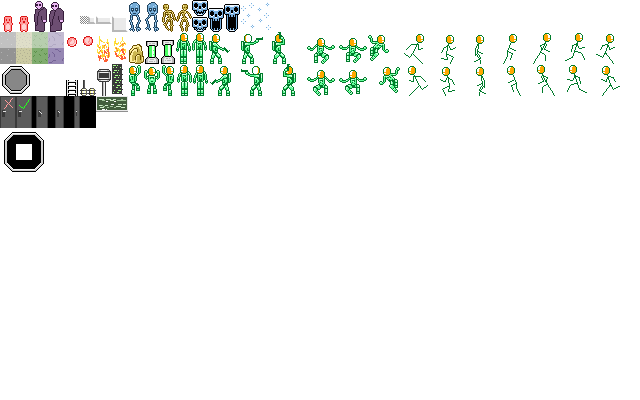
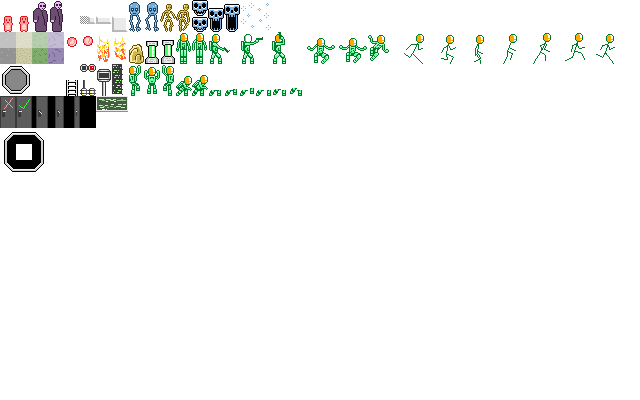
mostly implemented crouching, added some (incomplete) sprites

diff --git a/entities.py b/entities.py
@@ -54,6 +54,12 @@ class Entity:
         self.y = y
         self.rect.y = round(y)
         
+    def set_w(self, w):
+        self.rect.width = w
+        
+    def set_h(self, h):
+        self.rect.height = h
+        
     def set_xy(self, x, y):
         self.set_x(x)
         self.set_y(y)
@@ -165,13 +171,13 @@ class Actor(Entity):
     def set_vel_y(self, vy):
         self.vel[1] = vy
         
-    def _update_status_tags(self, world):
+    def _update_status_tags(self, world, input_state):
         self.is_grounded = world.is_touching_wall(self, (0, 1))
         self.is_left_walled = world.is_touching_wall(self, (-1, 0))
         self.is_right_walled = world.is_touching_wall(self, (1, 0))    
-        if self.is_left_walled or self.vel[0] > 0:
+        if self.vel[0] > 0 or (not self.is_grounded and self.is_left_walled):
             self.facing_right = True
-        if self.is_right_walled or self.vel[0] < 0:
+        if self.vel[0] < 0 or (not self.is_grounded and self.is_right_walled):
             self.facing_right = False
         
     def deal_damage(self, damage, direction=None):
@@ -180,9 +186,12 @@ class Actor(Entity):
         
 class Player(Actor):
     def __init__(self, x, y):
-        Actor.__init__(self, x, y, 16, 48)
+        self.full_height = 48
+        self.crouch_height = 32
+        Actor.__init__(self, x, y, 16, self.full_height)
         self.categories.update(["player"])
         self.speed = 5
+        self.crouch_speed = 2.5
         
         self.max_slide_speed = 1.5
         
@@ -191,6 +200,7 @@ class Player(Actor):
         self.active_bullet = None # rect where bullet is
         
         self.interact_radius = 32
+        self.is_crouching = False
     
     def sprite(self):
         if self._is_shooting():
@@ -198,10 +208,16 @@ class Player(Actor):
             anim = images.PLAYER_GUN
             return anim.single_frame(frm)
         elif self.is_grounded:
-            if abs(self.vel[0]) > 1:
-                return images.PLAYER_RUN
+            if self.is_crouching:
+                if abs(self.vel[0]) > 0.5:
+                    return images.PLAYER_CROUCH_WALK
+                else:
+                    return images.PLAYER_CROUCH
             else:
-                return images.PLAYER_IDLE
+                if abs(self.vel[0]) > 1:
+                    return images.PLAYER_RUN
+                else:
+                    return images.PLAYER_IDLE
         elif self.is_left_walled or self.is_right_walled:
             return images.PLAYER_WALLSLIDE
         else:
@@ -215,7 +231,10 @@ class Player(Actor):
         if spr is images.PLAYER_WALLSLIDE:
             sign = 1 if self.facing_right else -1
             res[0] = res[0] + sign * 12
-        
+        if self.is_crouching:
+            #res[1] -= 8
+            pass
+            
         return res
         
     def draw(self, screen, offset=(0,0), modifier=None):
@@ -225,7 +244,15 @@ class Player(Actor):
         Actor.draw(self, screen, offset, modifier)
         
     def update(self, input_state, world):
-        self._update_status_tags(world)
+        self._update_status_tags(world, input_state)
+        
+        h = self.height()
+        expected_h = self.crouch_height if self.is_crouching else self.full_height
+        if h != expected_h:
+            y = self.xy()[1]
+            self.set_h(expected_h)
+            self.set_y(y + (h - expected_h)) # keep feet in same place
+        
         self._handle_shooting(world)
         
         keyboard_x = 0
@@ -244,7 +271,8 @@ class Player(Actor):
                 fric = 0.25
             self.vel[0] = cool_math.tend_towards(0, self.vel[0], fric)
         else:    
-            target_speed = keyboard_x * self.speed
+            target_speed = self.speed if not self.is_crouching else self.crouch_speed
+            target_speed *= keyboard_x
             if self.is_grounded and self.vel[0] * target_speed < 0:
                 # turn around instantly when grounded
                 self.vel[0] = 0
@@ -279,6 +307,16 @@ class Player(Actor):
 
         self.apply_gravity()
         self.apply_physics()
+        
+    def _update_status_tags(self, world, input_state):
+        Actor._update_status_tags(self, world, input_state)
+        
+        was_crouching = self.is_crouching
+        self.is_crouching = self.is_grounded and input_state.is_held(pygame.K_s)
+        if was_crouching and self.is_grounded and not self.is_crouching:
+            blocked_above = world.is_touching_wall(self, (0, -1))
+            if blocked_above:
+                self.is_crouching = True
         
     def _is_shooting(self):
         return self.shoot_cooldown > 0
@@ -336,7 +374,7 @@ class Enemy(Actor):
             pygame.draw.rect(screen, (50, 255, 50), health_rect, 0)
         
     def update(self, input_state, world):
-        self._update_status_tags(world)
+        self._update_status_tags(world, input_state)
         
         if self.health <= 0:
             self.is_alive = False
@@ -368,13 +406,7 @@ class Enemy(Actor):
     def touched_player(self, player, world):
         v = cool_math.sub(player.center(), self.center())
         v = cool_math.normalize(v)
-        player.deal_damage(5, v)
-        
-    def is_actor(self):
-        return True
-        
-    def is_enemy(self):
-        return True   
+        player.deal_damage(5, v)  
                
                
 class Wall(Entity):

diff --git a/images.py b/images.py
@@ -83,16 +83,13 @@ TERMINAL_SCREEN = A([R(112,64+i*5,10,5) for i in range(0, 6)])
 CHALKBOARD = A([R(96,96,32,16)])
 
 PLAYER_IDLE     = A([R(176,32,16,32), R(192,32,16,32)])
-PLAYER_IDLE_LEFT = A([R(176,64,16,32), R(192,64,16,32)])
 PLAYER_GUN      = A([R(208+i*32,32,24,32) for i in range(0, 3)], TPF=5)
-PLAYER_GUN_LEFT = A([R(208+i*32,64,24,32) for i in range(0, 3)], TPF=5)
 PLAYER_AIR      = A([R(304,32,32,32), R(336,32,32,32)])
-PLAYER_AIR_LEFT = A([R(304,64,32,32), R(336,64,32,32)])
 PLAYER_WALLSLIDE = A([R(368,32,24,32)])
-PLAYER_WALLSLIDE_LEFT = A([R(376,64,24,32)]) 
 PLAYER_RUN      = A([R(400+32*i,32,32,32) for i in range(0, 6)], TPF=3)
-PLAYER_RUN_LEFT = A([R(400+32*i,64,32,32) for i in range(0, 6)], TPF=3)
 PLAYER_LADDER   = A([R(128,64,16,32), R(144,64,16,32),R(160,64,16,32),R(144,64,16,32)])
+PLAYER_CROUCH   = A([R(176+i*16,64,16,32) for i in range(0, 2)])
+PLAYER_CROUCH_WALK = A([R(208+i*16,64,16,32) for i in range(0, 6)], TPF=3)
 
 STONE_GROUND = A([r(0,2,1,1)])
 SAND_GROUND = A([r(1,2,1,1)])
@@ -108,7 +105,7 @@ TEXT_BORDER_BR  = A([R(32,160,16,16)])
 TEXT_BORDER_B   = A([R(16,160,16,16)])
 TEXT_BORDER_BL  = A([R(0,160,16,16)])
 
-def flip_rect(rect):
+def _flip_rect(rect):
     sheet_w = get_sheet(modifier="flipped").get_width()
     x = sheet_w - rect[0] - rect[2]
     return [x, rect[1], rect[2], rect[3]]
@@ -123,7 +120,7 @@ def draw_animated_sprite(screen, dest_rect, animation, modifier="normal"):
 
 def draw_sprite(screen, dest_rect, source_rect, modifier="normal"):
     if modifier == "flipped":
-        source_rect = flip_rect(source_rect)
+        source_rect = _flip_rect(source_rect)
     screen.blit(get_sheet(modifier), dest_rect, source_rect)
     
 def get_sheet(modifier="normal"):
@@ -219,7 +216,6 @@ def get_darkness_overlay(rect, sources, ambient_darkness):
         res = pygame.Surface((rect[2], rect[3]), flags=pygame.SRCALPHA)
         res.fill((0,0,0,ambient_darkness))
         for src in key:
-            #pygame.draw.circle(res, (255,255,255,255-src[2]), (src[0], src[1]), src[3], 0)
             sized_lightmap = get_lightmap(src[3])
             dest = (src[0]-src[3], src[1]-src[3])
             res.blit(sized_lightmap, dest, special_flags=pygame.BLEND_RGBA_SUB)

diff --git a/world.py b/world.py
@@ -214,21 +214,22 @@ class World:
         for chunk in chunks_to_draw:
             chunk.draw_actors(screen, offset)
             
-        if not global_state.show_no_darkness:
-            onscreen_keys = self.get_chunk_keys_in_rect(
-                    screen_rect, 
-                    and_above_and_left=False)
-            dummy_chunk = None
-            for key in onscreen_keys:
-                chunk = self.get_chunk_from_key(key)
-                if chunk != None:
+        onscreen_keys = self.get_chunk_keys_in_rect(
+                screen_rect, 
+                and_above_and_left=False)
+        dummy_chunk = None
+        for key in onscreen_keys:
+            chunk = self.get_chunk_from_key(key)
+            if chunk != None:
+                if not global_state.show_no_darkness:
                     chunk.draw_darkness(self, screen, offset)
-                    chunk.draw_debug_stuff(screen, offset)
-                else:
-                    if dummy_chunk == None:         
-                        dummy_chunk = Chunk(0, 0)
-                    dummy_chunk.rect.x = key[0]     # uhh lel
-                    dummy_chunk.rect.y = key[1]
+                chunk.draw_debug_stuff(screen, offset)
+            else:
+                if dummy_chunk == None:         
+                    dummy_chunk = Chunk(0, 0)
+                dummy_chunk.rect.x = key[0]     # uhh lel
+                dummy_chunk.rect.y = key[1]
+                if not global_state.show_no_darkness:
                     dummy_chunk.draw_darkness(self, screen, offset)
                         
     def add_entity(self, entity):
